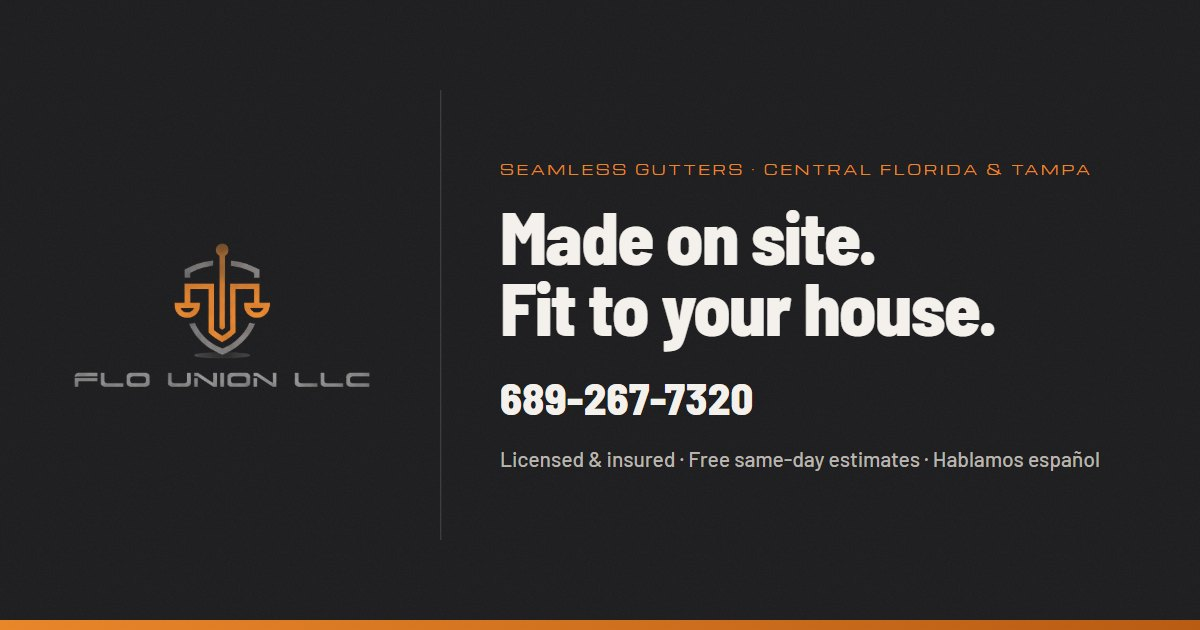
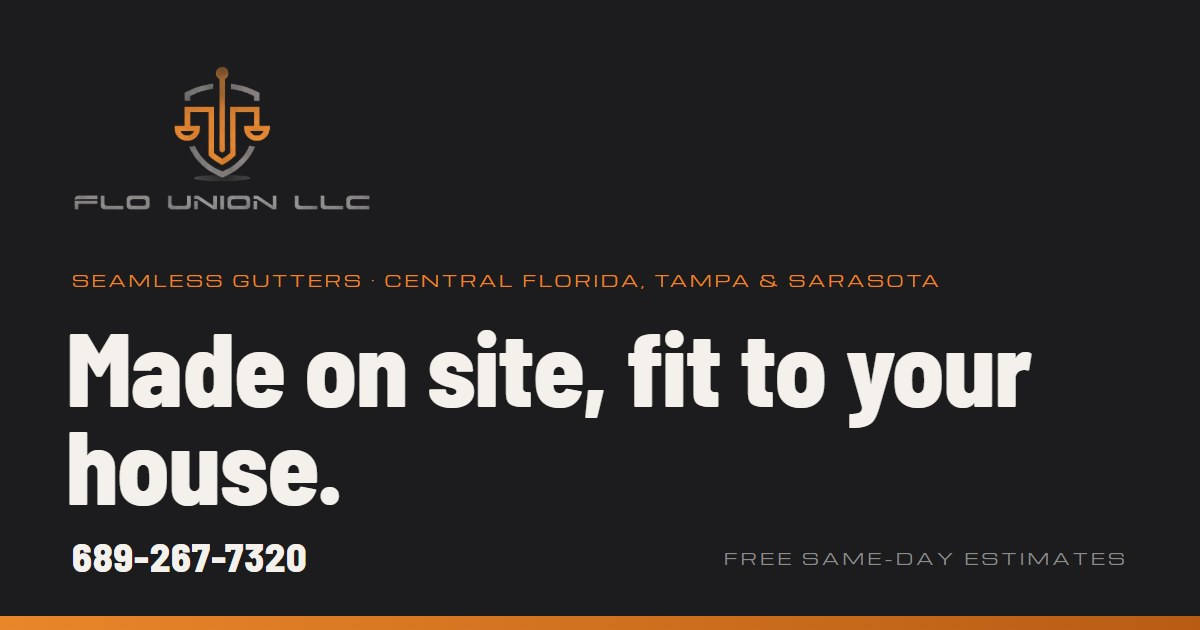
Apply Jay's details: registered LLC L23000363697 instead of licensed, founded 2023, Sarasota and Venice, 5-10 year labor and 20-year material warranty, Sarasota address, certificate on request

diff --git a/src/data/areaMap.ts b/src/data/areaMap.ts
@@ -1,8 +1,8 @@
 // Generated by scratchpad/mapgen.mjs from us-atlas counties-10m (US Census cartographic boundaries). Do not edit by hand.
 export const areaMap = {
-  viewBox: '0 0 640 591',
-  outer: 'M15 457.8L14 409.5L80.7 410.4L165.3 410.1L165.3 382.4L179.2 382.7L179.2 365.6L180.2 313.3L180.2 299.7L168.2 298.7L156.3 285.9L136.4 283.2L118.5 257.2L122.5 253.7L125.5 237.9L142.4 224.9L148.3 214.1L144.4 205.1L119.5 181.3L108.5 161.2L208 161.5L289.6 161.2L289.6 133.6L295.6 133.6L294.6 61.4L283.7 46.3L348.4 28.9L352.3 22.9L355.3 22.7L356.3 66.3L431 64.7L429 19.2L443.9 14L458.8 51.7L487.7 113.8L546.4 214.6L552.4 225.5L590.2 279.7L594.2 296.8L604.1 319.3L586.2 334.7L582.2 349.4L581.2 372.9L586.2 408.2L592.2 434.2L608.1 473.5L626 508.2L613.1 510.1L608.1 520.4L508.6 520.4L504.6 520.4L507.6 577.4L432.9 576.8L316.5 575.7L180.2 576L40.9 576.3L49.8 561.1L62.8 551.9L60.8 545.6L74.7 538.6L85.6 515.8L80.7 495.5L58.8 489.8L63.8 520.4L41.9 512.3L47.8 503.1L46.8 485.4L41.9 474.9L20 464.8L15 457.8',
-  inner: 'M294.6 61.4L301.6 83.7L316.5 85.6L324.5 92.9L333.4 117.8L343.4 118.4L345.4 128.7L374.2 153.6L374.2 181.3L370.3 187L356.3 204L357.3 216.5L355.3 231.7L344.4 239L345.4 262.3L381.2 262.6L381.2 271.8L475.7 271L485.7 273.4L490.7 293.8L505.6 305.4L507.6 315.5L499.6 327.7L510.6 354.8L289.6 354.8L289.6 222.2L292.6 216.2L357.3 216.5M208 161.5L208 290.3L207.1 355.3L207.1 367L189.1 362.1L179.2 365.6M432.9 576.8L432 555.7L414 520.7L408.1 514.2L388.2 507.9L386.2 489L368.3 471.1L365.3 463.2L357.3 464.8L344.4 448L363.3 455.6L366.3 460.5L370.3 444.8L376.2 437.7L345.4 437.5L345.4 419L326.5 419.3L326.5 400.9L317.5 382.4L289.6 382.4L289.6 354.8L252.8 355L252.8 350.2L234.9 350.2L234.9 355L207.1 355.3M546.4 214.6L480.7 214.9L481.7 271L475.7 271M510.6 354.8L510.6 435.3L508.6 437.7L508.6 520.4M180.2 576L180.2 493.6L179.2 487.3L179.2 410.1L165.3 410.1M370.3 187L373.2 196.7L383.2 201.1L410.1 201.6L412 209.2L423 217.6L433.9 214.6L442.9 203L453.8 207.8L457.8 220.3L454.8 227.6L467.8 245.5L466.8 251.5L475.7 271',
-  points: {"Orlando":[367.1,294.6],"Winter Park":[378.2,275],"Apopka":[330.3,251],"Winter Garden":[309.8,286],"Lake Nona":[402.9,347.6],"Kissimmee":[359.1,372.2],"St. Cloud":[394.3,385.8],"Sanford":[396.5,211.6],"Oviedo":[414.6,252.9],"Lake Mary":[384.1,224.8],"Altamonte Springs":[370.8,255.7],"Clermont":[257.9,291.1],"Daytona Beach":[465.8,82.2],"Deltona":[399,180],"Lakeland":[208.8,452],"The Villages":[195.3,171.5],"Melbourne":[580.9,437.8],"Tampa":[68.3,479.8]} as Record<string, [number, number]>,
-  counties: {"Orange":[404.1,272.7],"Sumter":[157.9,264],"Lake":[294,208.7],"Seminole":[410.1,227.9],"Volusia":[399.2,142.6],"Osceola":[391.2,457.4],"Polk":[291.6,436.7],"Brevard":[550.4,362.1],"Hillsborough":[77.6,493.4]} as Record<string, [number, number]>,
+  viewBox: '0 0 640 809',
+  outer: 'M17 654.9L125.5 656L124.5 711.2L179.2 712L179.2 767.4L124.5 767.1L124.5 794.6L90.6 794.4L71.7 758.4L62.8 733L43.9 695.2L17 654.9M15 456.3L14 408.2L80.7 409.1L165.3 408.8L165.3 381.2L179.2 381.5L179.2 364.5L180.2 312.3L180.2 298.8L168.2 297.7L156.3 285L136.4 282.3L118.5 256.4L122.5 252.9L125.5 237.2L142.4 224.2L148.3 213.4L144.4 204.5L119.5 180.7L108.5 160.7L208 161L289.6 160.7L289.6 133.2L295.6 133.2L294.6 61.3L283.7 46.2L348.4 28.9L352.3 22.9L355.3 22.6L356.3 66.2L431 64.5L429 19.1L443.9 14L458.8 51.6L487.7 113.4L546.4 214L552.4 224.8L590.2 278.8L594.2 295.8L604.1 318.3L586.2 333.7L582.2 348.3L581.2 371.8L586.2 406.9L592.2 432.8L608.1 472L626 506.6L613.1 508.5L608.1 518.8L508.6 518.8L504.6 518.8L507.6 575.5L432.9 575L316.5 573.9L180.2 574.2L40.9 574.4L49.8 559.3L62.8 550.1L60.8 543.9L74.7 536.9L85.6 514.2L80.7 493.9L58.8 488.2L63.8 518.8L41.9 510.7L47.8 501.5L46.8 483.9L41.9 473.4L20 463.4L15 456.3',
+  inner: 'M294.6 61.3L301.6 83.4L316.5 85.3L324.5 92.6L333.4 117.5L343.4 118L345.4 128.3L374.2 153.2L374.2 180.7L370.3 186.4L356.3 203.4L357.3 215.9L355.3 231L344.4 238.3L345.4 261.5L381.2 261.8L381.2 271L475.7 270.2L485.7 272.6L490.7 292.9L505.6 304.5L507.6 314.5L499.6 326.6L510.6 353.7L289.6 353.7L289.6 221.5L292.6 215.6L357.3 215.9M208 161L208 289.3L207.1 354.2L207.1 365.8L189.1 361L179.2 364.5M432.9 575L432 553.9L414 519L408.1 512.5L388.2 506.3L386.2 487.4L368.3 469.6L365.3 461.7L357.3 463.4L344.4 446.6L363.3 454.2L366.3 459L370.3 443.4L376.2 436.3L345.4 436.1L345.4 417.7L326.5 418L326.5 399.6L317.5 381.2L289.6 381.2L289.6 353.7L252.8 353.9L252.8 349.1L234.9 349.1L234.9 353.9L207.1 354.2M546.4 214L480.7 214.2L481.7 270.2L475.7 270.2M510.6 353.7L510.6 433.9L508.6 436.3L508.6 518.8M180.2 574.2L180.2 492L179.2 485.8L179.2 408.8L165.3 408.8M370.3 186.4L373.2 196.1L383.2 200.4L410.1 201L412 208.6L423 216.9L433.9 214L442.9 202.3L453.8 207.2L457.8 219.6L454.8 226.9L467.8 244.8L466.8 250.7L475.7 270.2',
+  points: {"Orlando":[367.1,293.6],"Winter Park":[378.2,274.1],"Apopka":[330.3,250.2],"Winter Garden":[309.8,285.1],"Lake Nona":[402.9,346.5],"Kissimmee":[359.1,371],"St. Cloud":[394.3,384.5],"Sanford":[396.5,210.9],"Oviedo":[414.6,252.1],"Lake Mary":[384.1,224.1],"Altamonte Springs":[370.8,254.9],"Clermont":[257.9,290.2],"Daytona Beach":[465.8,81.9],"Deltona":[399,179.5],"Lakeland":[208.8,450.6],"The Villages":[195.3,171],"Melbourne":[580.9,436.4],"Tampa":[68.3,478.3],"Sarasota":[47.8,671.7],"Venice":[69.1,746]} as Record<string, [number, number]>,
+  counties: {"Orange":[404.1,271.8],"Sumter":[157.9,263.1],"Lake":[294,208],"Seminole":[410.1,227.2],"Volusia":[399.2,142.1],"Osceola":[391.2,455.9],"Sarasota":[96.7,724.9],"Polk":[291.6,435.3],"Brevard":[550.4,361],"Hillsborough":[77.6,491.8]} as Record<string, [number, number]>,
 };

diff --git a/src/i18n/ui.ts b/src/i18n/ui.ts
@@ -42,15 +42,15 @@ const en = {
   'cta.tapCall': 'Call',
   'cta.tapText': 'Text',
 
-  'hero.eyebrow': 'Seamless gutters · Central Florida & Tampa',
+  'hero.eyebrow': 'Seamless gutters · Central Florida, Tampa & Sarasota',
   'hero.h1': 'Seamless gutters, made on site, fit to your house.',
-  'hero.sub': 'Licensed and insured. Free same-day estimates. Over 500 homes done.',
+  'hero.sub': 'Registered and insured. Free same-day estimates. Over 500 homes done.',
   'hero.videoLabel': 'Our crew installing seamless gutters',
 
   'stats.homes': 'homes done',
   'stats.years': 'years combined experience',
-  'stats.licensed': 'Licensed & insured',
-  'stats.licensedSub': 'Florida',
+  'stats.licensed': 'Registered & insured',
+  'stats.licensedSub': 'Certificate on request',
   'stats.free': 'Free estimates',
   'stats.freeSub': 'Same day',
 
@@ -74,7 +74,7 @@ const en = {
   'colors.sub': 'Ask about other colors on your estimate.',
 
   'area.eyebrow': 'Where we work',
-  'area.title': 'Central Florida and Tampa.',
+  'area.title': 'Central Florida, Tampa, and Sarasota.',
   'area.sub': 'Pick your city.',
   'area.county': 'County',
 
@@ -87,7 +87,7 @@ const en = {
 
   'footer.hours': 'Open 7 days a week',
   'footer.spanish': 'Hablamos español',
-  'footer.license': 'License',
+  'footer.license': 'Florida LLC',
   'footer.services': 'Services',
   'footer.cities': 'Cities',
   'footer.company': 'Company',
@@ -104,7 +104,7 @@ const en = {
 
   'city.h1': 'Seamless gutters in {city}, FL',
   'city.eyebrow': 'Serving {city}',
-  'city.intro': 'Free on-site estimates the same day. Most homes done in one day. Licensed and insured.',
+  'city.intro': 'Free on-site estimates the same day. Most homes done in one day. Registered and insured.',
   'city.photosTitle': 'Recent work',
   'city.back': 'All service areas',
 
@@ -166,15 +166,15 @@ const es: Record<UiKey, string> = {
   'cta.tapCall': 'Llamar',
   'cta.tapText': 'Texto',
 
-  'hero.eyebrow': 'Canaletas sin costura · Florida Central y Tampa',
+  'hero.eyebrow': 'Canaletas sin costura · Florida Central, Tampa y Sarasota',
   'hero.h1': 'Canaletas sin costura, hechas en el sitio, a la medida de su casa.',
-  'hero.sub': 'Con licencia y seguro. Estimados gratis el mismo día. Más de 500 casas terminadas.',
+  'hero.sub': 'Registrados y asegurados. Estimados gratis el mismo día. Más de 500 casas terminadas.',
   'hero.videoLabel': 'Nuestro equipo instalando canaletas sin costura',
 
   'stats.homes': 'casas terminadas',
   'stats.years': 'años de experiencia combinada',
-  'stats.licensed': 'Licencia y seguro',
-  'stats.licensedSub': 'Florida',
+  'stats.licensed': 'Registrados y asegurados',
+  'stats.licensedSub': 'Certificado a pedido',
   'stats.free': 'Estimados gratis',
   'stats.freeSub': 'El mismo día',
 
@@ -198,7 +198,7 @@ const es: Record<UiKey, string> = {
   'colors.sub': 'Pregunte por otros colores en su estimado.',
 
   'area.eyebrow': 'Dónde trabajamos',
-  'area.title': 'Florida Central y Tampa.',
+  'area.title': 'Florida Central, Tampa y Sarasota.',
   'area.sub': 'Elija su ciudad.',
   'area.county': 'Condado',
 
@@ -211,7 +211,7 @@ const es: Record<UiKey, string> = {
 
   'footer.hours': 'Abierto los 7 días de la semana',
   'footer.spanish': 'Hablamos español',
-  'footer.license': 'Licencia',
+  'footer.license': 'LLC de Florida',
   'footer.services': 'Servicios',
   'footer.cities': 'Ciudades',
   'footer.company': 'Empresa',
@@ -228,7 +228,7 @@ const es: Record<UiKey, string> = {
 
   'city.h1': 'Canaletas sin costura en {city}, FL',
   'city.eyebrow': 'Servicio en {city}',
-  'city.intro': 'Estimados gratis en su casa el mismo día. La mayoría de las casas en un día. Con licencia y seguro.',
+  'city.intro': 'Estimados gratis en su casa el mismo día. La mayoría de las casas en un día. Registrados y asegurados.',
   'city.photosTitle': 'Trabajos recientes',
   'city.back': 'Todas las áreas de servicio',
 

diff --git a/src/data/site.ts b/src/data/site.ts
@@ -9,17 +9,17 @@ export const site = {
   phoneE164: '+16892677320',
   email: 'jayflounion@gmail.com',
   hours: { en: '7 days a week', es: 'los 7 días de la semana' } as L,
-  license: '', // TODO_JAY: license number (and type). Renders nothing while blank.
-  founded: '', // TODO_JAY: year Flo Union LLC started. Renders nothing while blank.
-  city: 'Orlando',
+  license: 'L23000363697', // Florida Division of Corporations (Sunbiz) document number. No contractor license: never say "licensed".
+  founded: '2023',
+  city: 'Sarasota',
   region: 'FL',
-  area: { en: 'Central Florida & Tampa', es: 'Florida Central y Tampa' } as L,
+  area: { en: 'Central Florida, Tampa & Sarasota', es: 'Florida Central, Tampa y Sarasota' } as L,
   url: 'https://lildaddy850.github.io/flo-union',
   stats: { homes: 500, years: 20 },
   payment: { en: 'cash, card, check, or Zelle', es: 'efectivo, tarjeta, cheque o Zelle' } as L,
   warranty: {
-    en: 'If anything we installed has a problem because of our work, we come back and fix it free. Storm damage, fallen trees, or someone else altering the gutters is not covered.',
-    es: 'Si algo que instalamos tiene un problema por nuestro trabajo, volvemos y lo arreglamos gratis. No cubre daños por tormentas, árboles caídos o cambios hechos por otra persona.',
+    en: 'Labor is covered for 5 to 10 years depending on the job, and the material carries a 20-year warranty. If anything we installed has a problem because of our work, we come back and fix it. Storm damage, fallen trees, or someone else altering the gutters is not covered.',
+    es: 'La mano de obra tiene garantía de 5 a 10 años según el trabajo, y el material tiene garantía de 20 años. Si algo que instalamos tiene un problema por nuestro trabajo, volvemos y lo arreglamos. No cubre daños por tormentas, árboles caídos o cambios hechos por otra persona.',
   } as L,
   sameAs: [] as string[], // TODO_JAY: Google Business Profile, Facebook page, etc.
   colors: [
@@ -36,8 +36,8 @@ export const why = [
     label: { en: 'Local', es: 'Locales' } as L,
     title: { en: 'We live here and we work here.', es: 'Vivimos aquí y trabajamos aquí.' } as L,
     body: {
-      en: 'Central Florida and Tampa. We answer our own phone, and the person you talk to is the person who shows up.',
-      es: 'Florida Central y Tampa. Contestamos nuestro propio teléfono, y la persona con la que habla es la que llega a su casa.',
+      en: 'Central Florida, Tampa, and Sarasota. We answer our own phone, and the person you talk to is the person who shows up.',
+      es: 'Florida Central, Tampa y Sarasota. Contestamos nuestro propio teléfono, y la persona con la que habla es la que llega a su casa.',
     } as L,
   },
   {
@@ -60,8 +60,8 @@ export const why = [
     label: { en: 'We actually care', es: 'Nos importa de verdad' } as L,
     title: { en: 'Hidden hangers, screws, cleanup. Fixed free if our work fails.', es: 'Soportes ocultos, tornillos, limpieza. Arreglo gratis si nuestro trabajo falla.' } as L,
     body: {
-      en: 'Screws, not spikes. Hangers you cannot see. The yard cleaner than we found it. And if anything we installed has a problem because of our work, we come back and fix it free.',
-      es: 'Tornillos, no clavos. Soportes que no se ven. El patio más limpio de lo que lo encontramos. Y si algo que instalamos falla por nuestro trabajo, volvemos y lo arreglamos gratis.',
+      en: 'Screws, not spikes. Hangers you cannot see. The yard cleaner than we found it. Labor warranty of 5 to 10 years, 20 years on materials.',
+      es: 'Tornillos, no clavos. Soportes que no se ven. El patio más limpio de lo que lo encontramos. Garantía de mano de obra de 5 a 10 años y de 20 años en materiales.',
     } as L,
   },
 ];

diff --git a/src/data/cities.ts b/src/data/cities.ts
@@ -75,4 +75,12 @@ export const cities: City[] = [
     { en: 'Tampa summers mean a storm almost every afternoon and a lot of water coming off the roof at once.', es: 'Los veranos en Tampa traen tormentas casi todas las tardes y mucha agua bajando del techo de golpe.' },
     { en: 'We come out to Tampa for homes and for HOA and commercial work.', es: 'Vamos a Tampa para casas y para trabajo de HOA y comercial.' },
   ], photos: ['hoa-02', 'condo-02', 'newbuild-04', 'bronze-01', 'tile-02', 'commercial-01'] },
+  { slug: 'sarasota', name: 'Sarasota', county: 'Sarasota', lines: [
+    { en: 'Sarasota is home base. Tile roofs, stucco, and Gulf storms that come in sideways.', es: 'Sarasota es nuestra base. Techos de teja, estuco y tormentas del Golfo que llegan de lado.' },
+    { en: 'Salt air eats cheap gutters. Seamless aluminum holds up.', es: 'El aire salado se come las canaletas baratas. El aluminio sin costura aguanta.' },
+  ], photos: ['tile-02', 'bronze-03', 'newbuild-04', 'hoa-02', 'detail-tile-eave', 'condo-01'] },
+  { slug: 'venice', name: 'Venice', county: 'Sarasota', lines: [
+    { en: 'Venice homes sit low and close to the water. Downspouts have to carry the rain away from the slab.', es: 'Las casas de Venice están bajas y cerca del agua. Los bajantes tienen que alejar la lluvia de la losa.' },
+    { en: 'Close to home base. Same-day estimates.', es: 'Cerca de nuestra base. Estimados el mismo día.' },
+  ], photos: ['ranch-palm', 'siding-02', 'tile-01', 'brick-02', 'detail-downspout', 'newbuild-06'] },
 ];

diff --git a/src/data/faq.ts b/src/data/faq.ts
@@ -41,8 +41,8 @@ export const faq: Faq[] = [
   {
     q: { en: 'What if something goes wrong later?', es: '¿Y si algo falla después?' },
     a: {
-      en: 'If anything we installed has a problem because of our work, we come back and fix it free. Storm damage, fallen trees, or someone else altering the gutters is not covered.',
-      es: 'Si algo que instalamos tiene un problema por nuestro trabajo, volvemos y lo arreglamos gratis. No cubre daños por tormentas, árboles caídos o cambios hechos por otra persona.',
+      en: 'Labor is covered for 5 to 10 years depending on the job, and the material carries a 20-year warranty. If anything we installed has a problem because of our work, we come back and fix it. Storm damage, fallen trees, or someone else altering the gutters is not covered.',
+      es: 'La mano de obra tiene garantía de 5 a 10 años según el trabajo, y el material tiene garantía de 20 años. Si algo que instalamos tiene un problema por nuestro trabajo, volvemos y lo arreglamos. No cubre daños por tormentas, árboles caídos o cambios hechos por otra persona.',
     },
   },
   {

diff --git a/src/data/services.ts b/src/data/services.ts
@@ -174,8 +174,8 @@ export const services: Service[] = [
         a: { en: 'We set the schedule with the manager, keep driveways and walkways clear, and clean up every day.', es: 'Fijamos el cronograma con el administrador, mantenemos entradas y pasillos libres, y limpiamos todos los días.' },
       },
       {
-        q: { en: 'Are you licensed and insured?', es: '¿Tienen licencia y seguro?' },
-        a: { en: 'Yes. Licensed and insured.', es: 'Sí. Con licencia y seguro.' },
+        q: { en: 'Are you insured?', es: '¿Tienen seguro?' },
+        a: { en: 'Yes. Flo Union is a registered Florida LLC and carries insurance. Certificate of insurance on request.', es: 'Sí. Flo Union es una LLC registrada en Florida y tiene seguro. Certificado de seguro a pedido.' },
       },
     ],
   },
